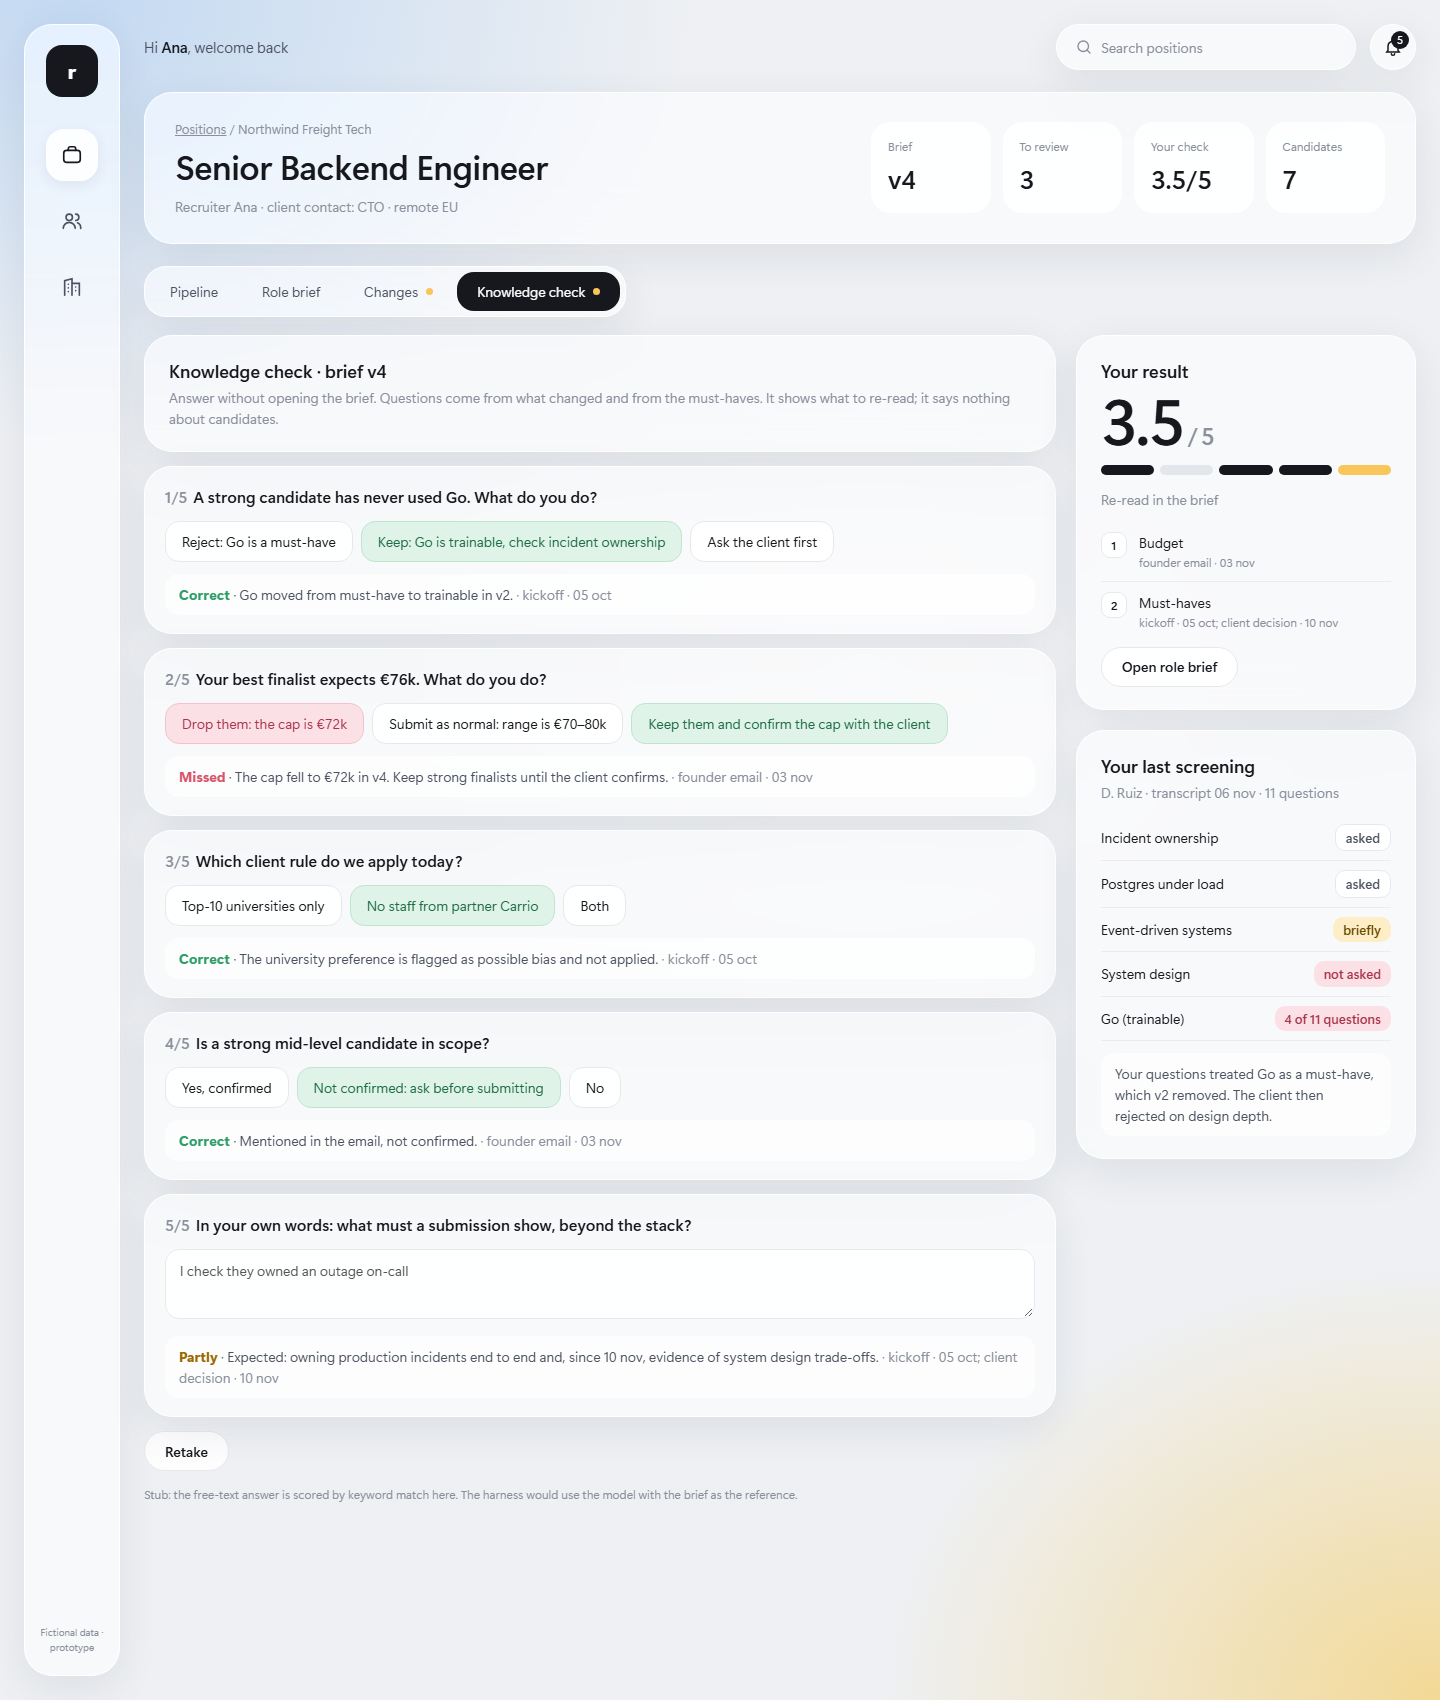
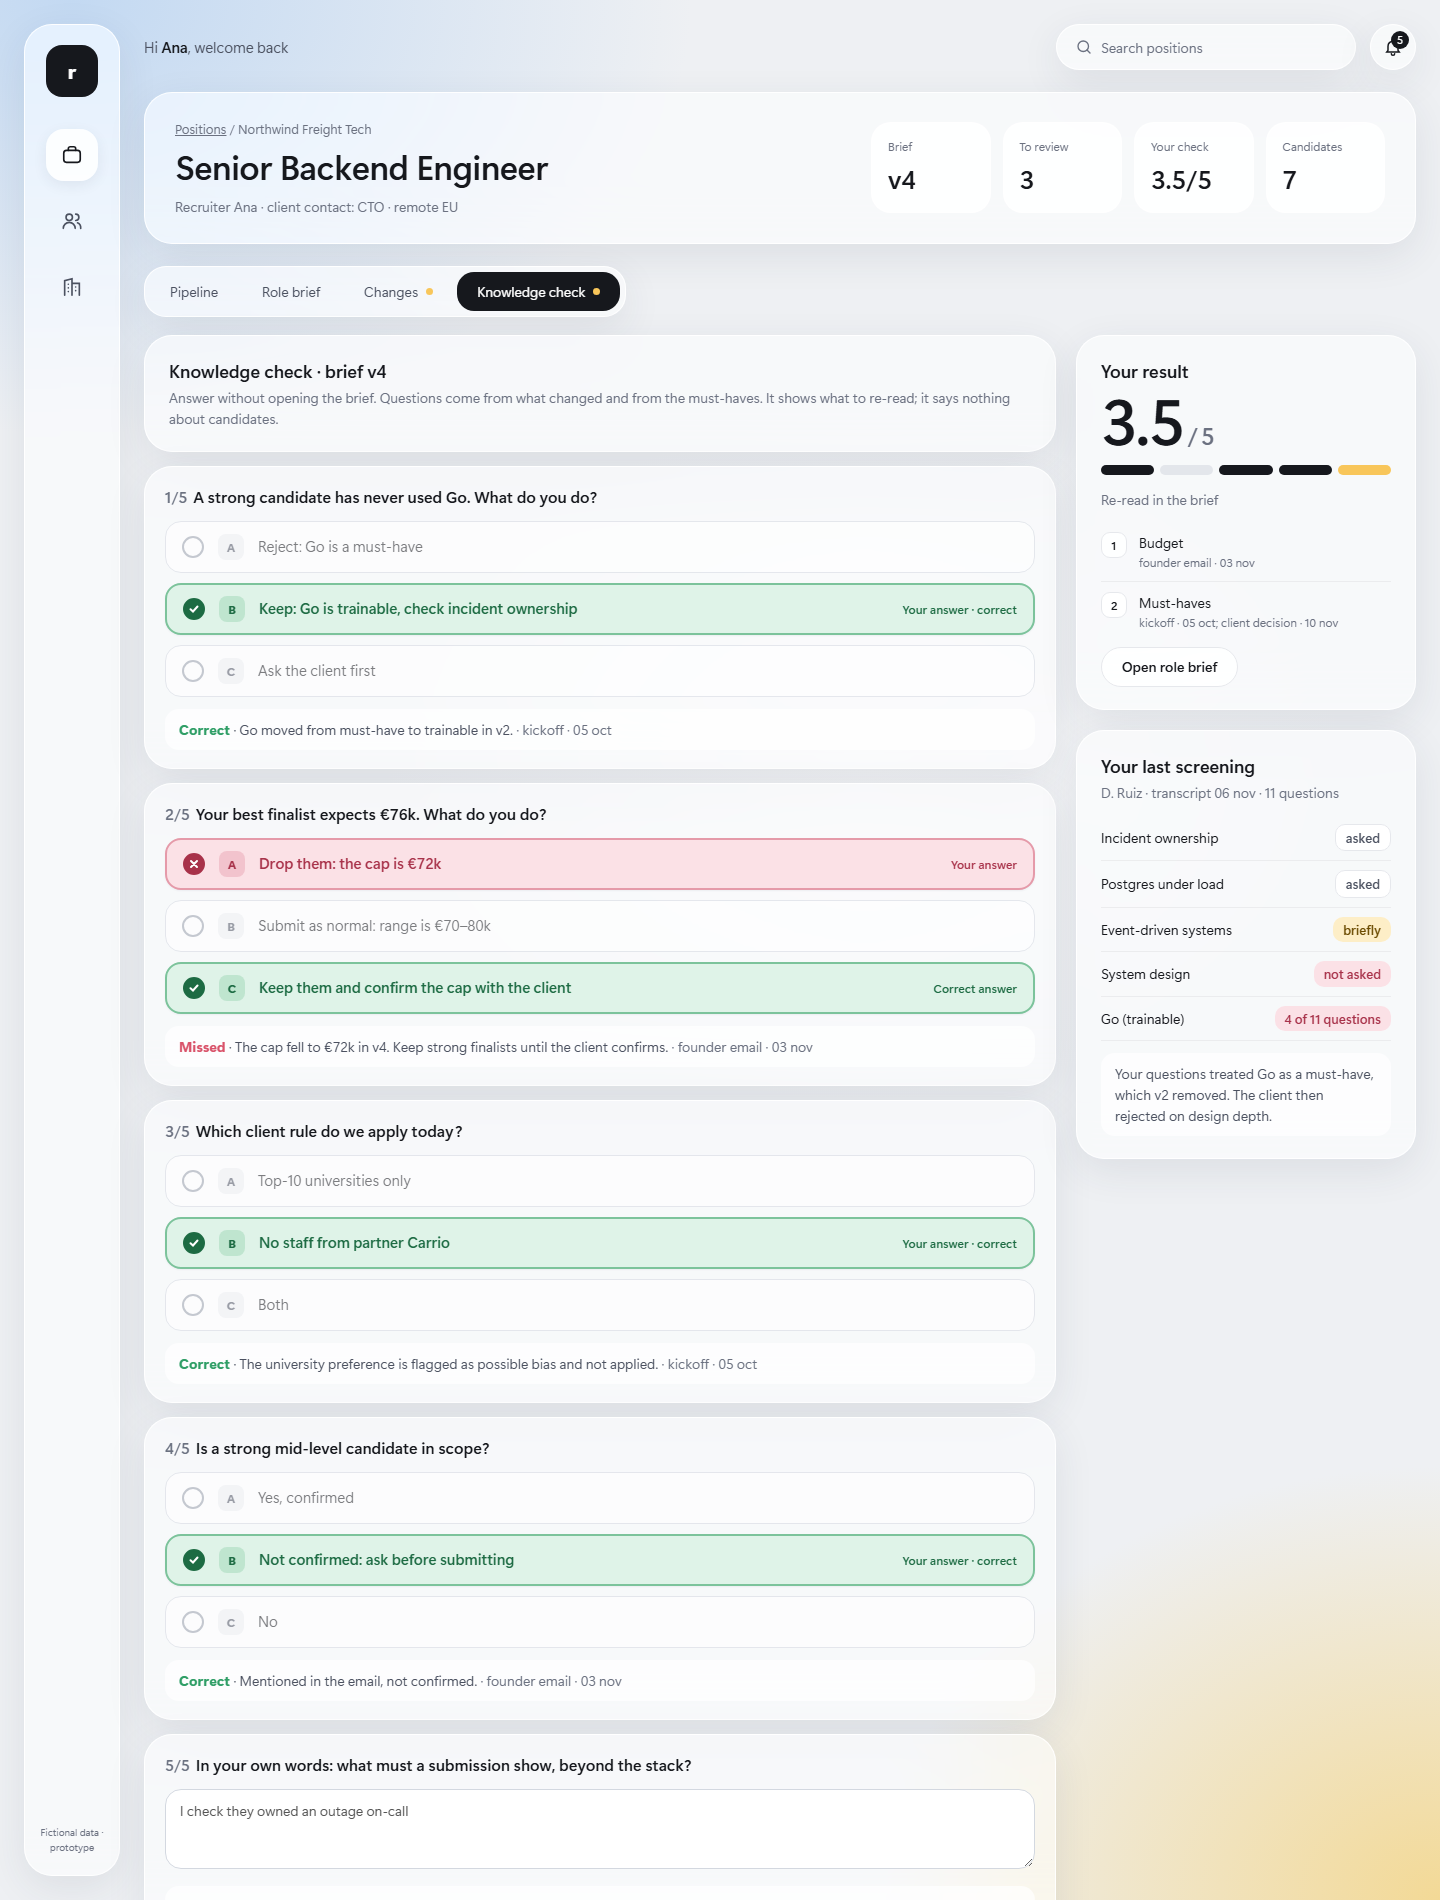
Adopt glass style in designs.md and clarify knowledge-check options

diff --git a/_work/2026-11-07-client-context/proto-ats-a-hifi.html b/_work/2026-11-07-client-context/proto-ats-a-hifi.html
@@ -1,7 +1,7 @@
 <!doctype html>
 <html lang="en"><head><meta charset="utf-8"><title>Mock ATS · role intelligence</title>
 <style>
-:root{--ink:#16181d;--ink2:#4b5160;--muted:#8a8f9c;--glass:rgba(255,255,255,.58);--glass2:rgba(255,255,255,.86);--edge:rgba(255,255,255,.9);
+:root{--ink:#16181d;--ink2:#4b5160;--muted:#6b7180;--glass:rgba(255,255,255,.58);--glass2:rgba(255,255,255,.86);--edge:rgba(255,255,255,.9);
 --yellow:#f8c65a;--yellowsoft:#fdeec7;--blue:#bcd5ef;--red:#d9536a;--green:#2f9e66;--shadow:0 12px 40px rgba(40,55,80,.09);
 --font:"Outfit","Segoe UI Variable Display","Segoe UI",system-ui,sans-serif}
 *{box-sizing:border-box}
@@ -90,11 +90,24 @@ main{min-width:0}
 /* check */
 .q{padding:18px 20px;margin-bottom:14px}
 .q p{margin:0 0 12px;font-weight:600;font-size:16px}.q .qn{color:var(--muted);font-weight:500;margin-right:6px}
-.opts{display:flex;flex-wrap:wrap;gap:8px}
-.opt{padding:9px 16px;border-radius:14px;background:var(--glass2);border:1px solid #e6e8ec;font-size:14px;text-align:left}
-.opt.sel{background:var(--ink);color:#fff;border-color:var(--ink)}
-.opt.right{background:#dff3e8;border-color:#bfe5cf;color:#1d6b43}.opt.wrong{background:#fbe1e6;border-color:#f2c3cd;color:#a8324a}
-textarea{width:100%;min-height:70px;border-radius:14px;border:1px solid #e6e8ec;background:var(--glass2);padding:10px 14px;font:inherit;font-size:14px;resize:vertical}
+.opts{display:grid;gap:10px}
+.opt{display:flex;align-items:center;gap:14px;width:100%;min-height:52px;padding:10px 16px;border-radius:16px;background:#fff;border:1.5px solid #d3d8e0;font-size:15px;text-align:left;box-shadow:0 1px 2px rgba(40,55,80,.06);transition:border-color .12s,background .12s}
+.opt:hover:not([disabled]){border-color:var(--ink);background:#fafbfc}
+.opt .rad{flex:none;width:22px;height:22px;border-radius:50%;border:2px solid #9aa1ad;display:grid;place-items:center;background:#fff}
+.opt .let{flex:none;width:26px;height:26px;border-radius:8px;background:#eef0f3;color:var(--ink2);font-size:12px;font-weight:700;display:grid;place-items:center}
+.opt .txt{flex:1}.opt .lab{flex:none;font-size:12px;font-weight:600;display:flex;align-items:center;gap:6px}
+.opt.sel{border:2px solid var(--ink);padding:9.5px 15.5px;font-weight:600}
+.opt.sel .rad{border-color:var(--ink)}.opt.sel .rad::after{content:"";width:10px;height:10px;border-radius:50%;background:var(--ink)}
+.opt.sel .let{background:var(--ink);color:#fff}
+.opt[disabled]{cursor:default}
+.opt.right{background:#dff3e8;border:2px solid #7cc39b;color:#1d6b43;font-weight:600}.opt.right .rad{border-color:#1d6b43;background:#1d6b43;color:#fff}.opt.right .let{background:#bfe5cf;color:#1d6b43}
+.opt.wrong{background:#fbe1e6;border:2px solid #e59aa9;color:#a8324a;font-weight:600}.opt.wrong .rad{border-color:#a8324a;background:#a8324a;color:#fff}.opt.wrong .let{background:#f2c3cd;color:#a8324a}
+.opt.dim{opacity:.55;box-shadow:none}
+.opt .rad svg{width:12px;height:12px}
+.qhead{display:flex;justify-content:space-between;align-items:baseline;gap:12px}.qhint{font-size:12px;color:var(--muted);white-space:nowrap}
+.q.answered .qhint{color:var(--green)}
+.submitbar{display:flex;align-items:center;gap:16px;margin-top:6px}.pill[disabled]{opacity:.4;cursor:not-allowed}
+textarea{width:100%;min-height:80px;border-radius:16px;border:1.5px solid #d3d8e0;background:#fff;padding:10px 14px;font:inherit;font-size:14px;resize:vertical}
 .fb{margin-top:12px;padding:10px 14px;border-radius:14px;background:rgba(255,255,255,.7);font-size:14px;color:var(--ink2)}
 .fb b.ok{color:var(--green)}.fb b.bad{color:var(--red)}.fb b.part{color:#9a6a00}
 .score{font-size:64px;font-weight:600;letter-spacing:-.02em;line-height:1}.score small{font-size:24px;color:var(--muted)}
@@ -154,7 +167,7 @@ function tab(t){S.tab=t;draw()}
 function topBar(){const n=POS.reduce((a,p)=>a+p.unrev,0);return `<div class="topbar"><div class="hello">Hi <b>Ana</b>, welcome back</div>
 <div class="search glass">${ic.search} Search positions</div>
 <button class="round glass" aria-label="${n} unreviewed brief changes">${ic.bell}<span class="dot">${n}</span></button></div>`}
-function draw(){$('main').innerHTML=topBar()+(S.view==='list'?list():position())}
+function draw(){$('main').innerHTML=topBar()+(S.view==='list'?list():position());const t=$('t4');if(t)t.value=S.ans[4]||'';progress()}
 function spark(t){const w=260,h=44,m=Math.max(...t),pts=t.map((v,i)=>[i*w/(t.length-1),h-4-(v/m)*(h-10)]);return `<svg class="spark" viewBox="0 0 ${w} ${h}" preserveAspectRatio="none" width="100%"><polyline fill="none" stroke="#e0b347" stroke-width="2.5" stroke-linejoin="round" points="${pts.map(p=>p.join(',')).join(' ')}"/>${pts.map(p=>`<circle cx="${p[0]}" cy="${p[1]}" r="3" fill="#fff" stroke="#e0b347" stroke-width="2"/>`).join('')}</svg>`}
 function list(){const total=POS.reduce((a,p)=>a+p.unrev,0);return `<section class="glass hero" style="grid-template-columns:1fr auto">
 <div><p class="h1">Open positions</p><div class="big">${POS.length} searches</div><div style="margin-top:10px;display:flex;gap:8px"><span class="chip y">${total} brief changes to review</span><span class="chip g">1 knowledge check due</span></div></div>
@@ -195,13 +208,19 @@ ${F.map(r=>`<tr><td><span class="grp">${r[0]}</span>${r[1]}</td>${r[2].map((c,i)
 function score(q,i){const a=S.ans[i];if(q.open){const t=(a||'').toLowerCase(),inc=['incident','outage','on-call'].some(k=>t.includes(k)),des=t.includes('design');return inc&&des?1:inc||des?.5:0}return a===q.a?1:0}
 function scoreTotal(){return Q.reduce((a,q,i)=>a+score(q,i),0)}
 function pick(i,j){if(S.done)return;S.ans[i]=j;draw()}
+function has(i){const a=S.ans[i];return Q[i].open?!!(a&&a.trim()):a!==undefined}
+function progress(){const n=Q.filter((q,i)=>has(i)).length,b=$('sub'),p=$('prog');if(b)b.disabled=n<Q.length;if(p)p.textContent=n<Q.length?n+' of '+Q.length+' answered':'All answered';}
+const ICK='<svg viewBox="0 0 12 12" fill="none" stroke="currentColor" stroke-width="2" stroke-linecap="round"><path d="M2.5 6.2 5 8.5l4.5-5"/></svg>',IX='<svg viewBox="0 0 12 12" fill="none" stroke="currentColor" stroke-width="2" stroke-linecap="round"><path d="m3 3 6 6M9 3 3 9"/></svg>';
+function opt(q,i,j,o,d){const mine=S.ans[i]===j,L='ABC'[j];let c='opt',rad='',lab='';
+if(d){if(j===q.a){c+=' right';rad=ICK;lab=mine?'Your answer · correct':'Correct answer'}else if(mine){c+=' wrong';rad=IX;lab='Your answer'}else c+=' dim'}else if(mine)c+=' sel';
+return `<button class="${c}" role="radio" aria-checked="${mine}" ${d?'disabled':''} onclick="pick(${i},${j})"><span class="rad">${rad}</span><span class="let">${L}</span><span class="txt">${o}</span>${lab?`<span class="lab">${lab}</span>`:''}</button>`}
 function submitQ(){const t=$('t4');if(t)S.ans[4]=t.value;S.done=true;draw()}
 function check(){const d=S.done;return `<div class="two"><div>
 <section class="glass panel" style="margin-bottom:14px"><h3>Knowledge check · brief v4</h3><div class="sub" style="margin:0">Answer without opening the brief. Questions come from what changed and from the must-haves. It shows what to re-read; it says nothing about candidates.</div></section>
-${Q.map((q,i)=>`<div class="glass q"><p><span class="qn">${i+1}/5</span>${q.p}</p>
-${q.open?`<textarea id="t${i}" ${d?'disabled':''} placeholder="Write a sentence or two">${S.ans[i]||''}</textarea>`:`<div class="opts">${q.o.map((o,j)=>{let c='opt';if(d){if(j===q.a)c+=' right';else if(S.ans[i]===j)c+=' wrong'}else if(S.ans[i]===j)c+=' sel';return `<button class="${c}" onclick="pick(${i},${j})">${o}</button>`}).join('')}</div>`}
+${Q.map((q,i)=>`<div class="glass q ${has(i)?'answered':''}" id="q${i}"><div class="qhead"><p><span class="qn">${i+1}/5</span>${q.p}</p><span class="qhint">${d?'':q.open?'Free text':has(i)?'✓ Answered':'Choose one'}</span></div>
+${q.open?`<textarea id="t${i}" ${d?'disabled':''} placeholder="Write a sentence or two" aria-label="Your answer" oninput="S.ans[${i}]=this.value;progress()"></textarea>`:`<div class="opts" role="radiogroup" aria-label="Question ${i+1}">${q.o.map((o,j)=>opt(q,i,j,o,d)).join('')}</div>`}
 ${d?`<div class="fb">${(s=>`<b class="${s===1?'ok':s?'part':'bad'}">${s===1?'Correct':s?'Partly':'Missed'}</b>`)(score(q,i))} · ${q.why} <span class="sub">· ${q.src}</span></div>`:''}</div>`).join('')}
-${d?`<button class="pill light" onclick="S.ans={};S.done=false;draw()">Retake</button>`:`<button class="pill dark" onclick="submitQ()">Check my answers</button>`}
+${d?`<button class="pill light" onclick="S.ans={};S.done=false;draw()">Retake</button>`:`<div class="submitbar"><button class="pill dark" id="sub" onclick="submitQ()">Check my answers</button><span class="sub" id="prog"></span></div>`}
 <p class="stub">Stub: the free-text answer is scored by keyword match here. The harness would use the model with the brief as the reference.</p></div>
 <div style="position:sticky;top:24px">${d?result():`<section class="glass panel"><h3>Your result</h3><div class="score">–<small> / 5</small></div><div class="sub" style="margin-top:8px">Last check: 2 / 5 on v3. Three fields changed since.</div></section>`}
 <section class="glass panel"><h3>Your last screening</h3><div class="sub">D. Ruiz · transcript 06 nov · 11 questions</div>
@@ -210,5 +229,5 @@ ${[['Incident ownership','asked','g'],['Postgres under load','asked','g'],['Even
 function result(){const s=Q.map((q,i)=>score(q,i)),miss=Q.filter((q,i)=>s[i]<1);return `<section class="glass panel"><h3>Your result</h3><div class="score">${scoreTotal()}<small> / 5</small></div>
 <div class="seg5">${s.map(x=>`<i class="${x===1?'y':x?'h':''}"></i>`).join('')}</div>
 ${miss.length?`<div class="sub">Re-read in the brief</div><ul class="list">${miss.map((q,i)=>`<li><span class="num">${i+1}</span><div>${q.f}<small>${q.src}</small></div></li>`).join('')}</ul><button class="pill light" onclick="tab('brief')" style="margin-top:6px">Open role brief</button>`:'<div class="sub">You are up to date with v4.</div>'}</section>`}
-const h=location.hash.slice(1);if(['pipeline','brief','changes','check'].includes(h)){S.view='pos';S.pos='nw-be';S.tab=h}if(location.search.includes('demo')){S.ans={0:1,1:0,2:1,3:1,4:'I check they owned an outage on-call'};S.done=true}draw();
+const h=location.hash.slice(1);if(['pipeline','brief','changes','check'].includes(h)){S.view='pos';S.pos='nw-be';S.tab=h}if(location.search.includes('partial'))S.ans={0:1,1:0};if(location.search.includes('demo')){S.ans={0:1,1:0,2:1,3:1,4:'I check they owned an outage on-call'};S.done=true}draw();
 </script></body></html>

diff --git a/designs.md b/designs.md
@@ -3,8 +3,9 @@
 Applies to readme.html, decision artifacts, and future interface prototypes. Product-specific choices may extend it once the end user is known.
 
 - Self-contained UTF-8 HTML, inline CSS/JavaScript, no CDN, tracking, remote fonts, or network requests. Set viewport and lang. Work from a local file.
-- Visual language: `docs/ui-style-reference.md` (supplied by the human 2026-11-07; prompts/client-context/003-user.md) governs product UI and new artifacts. Adopt its look (cream canvas #fdfbf9, Dew Drop #f7efe9 surface, Charcoal #171717 text and borders, Cocoa Ink #2b1a07 headings, lowercase rounded display, outlined pill buttons, 12px cards, whisper shadows, orange footer band). Do not reuse the source brand's name, logo, product photos, stickers or copy; this is a fictional recruitment agency's product.
-- Required adaptations: (1) no remote fonts: gelica/Geist fall back to the system stack, with Fraunces-like display only if bundled locally. (2) Marker Orange #ff6f1e measures 2.70:1 on cream, so use it only for decoration (underlines, footer band, arrows), never for text or state. Burnt Sienna #ce500a (4.26:1) is allowed only for text of 24px and above. (3) Sprout green measures 2.21:1, so focus rings use a 3px Charcoal outline. (4) The reference's `#ff6f1` brand-band token is a truncated typo; use #ff6f1e. (5) Display size is capped at clamp(2.5rem, 7vw, 6.5rem) so it fits phones. Earlier artifacts keep their old green palette as historical records.
+- Visual language (human decision 2026-11-08, prompts/client-context/019-user.md; supersedes `docs/ui-style-reference.md`, which stays as a historical record): light frosted-glass UI, as in `_work/2026-11-07-client-context/proto-ats-a-hifi.html`. Applies to the product UI, readme.html and new artifacts. Light theme only.
+- Tokens: backdrop #eef0f3 with soft radial washes of blue #c3d9f2 (top-left) and warm yellow #f3d996 (bottom-right); glass card rgba(255,255,255,.58) with 26px backdrop blur, 1px rgba(255,255,255,.9) edge, 28px radius, shadow 0 12px 40px rgba(40,55,80,.09); inner tile rgba(255,255,255,.86), 20px radius; ink #16181d; secondary text #4b5160; muted text #6b7180; change marker yellow #f8c65a (soft #fdeec7); success #1d6b43 on #dff3e8; error #a8324a on #fbe1e6; selected state and primary buttons ink #16181d with white text. Type: geometric sans via the system stack ("Segoe UI Variable", "Segoe UI", system-ui), large numerals for key figures, 40px pill buttons, segmented tabs with a dark selected tab.
+- Required adaptations: (1) no remote fonts or images. (2) Yellow is a background or marker only, always with dark text; never yellow text. (3) Do not rely on the translucent fill alone to show interactivity: selectable items need a visible control (radio, checkbox, chevron) and a border, and states differ by more than colour (icon or label). (4) Focus rings: 3px ink outline. (5) Do not reuse the reference image's brand name, logo, photos or copy; this is a fictional recruitment agency's product. Earlier artifacts keep their old styles as historical records.
 - Clear hierarchy: purpose/status → summary → decisions or tasks → evidence/next step. Distinguish facts, recommendations, assumptions, and pending answers with text, not color alone.
 - Responsive one/two-column grids that collapse below 720px. No fixed-width overflow. Semantic headings, fieldsets/legends, explicit labels, visible keyboard focus, adequate contrast, 44px action targets.
 - Every question: stable ID, why it matters, meaningful options with benefits/costs and recommended default. Defaults are proposals; leave answer inputs blank. Add free text for edge cases.

diff --git a/memory/STATE.md b/memory/STATE.md
@@ -2,7 +2,7 @@
 
 Updated: 2026-11-07 · Claude (client-context chat). Stage: client-context answers recorded; plan next.
 
-LATEST: the human chose prototype A and asked for a high-fidelity, desktop, light version in a frosted-glass modern style from a reference image (prompts/client-context/017-user.md). Built _work/2026-11-07-client-context/proto-ats-a-hifi.html (positions dashboard, position hero with KPIs, segmented tabs: Pipeline, Role brief, Changes = timeline + version table + client decisions, Knowledge check = 5 questions + result + last-screening coverage). Checked with headless Edge screenshots at 1440px (evidence/ folder) and a syntax check; free-text scoring is a keyword stub; ?demo#check shows an answered state. Open: whether the glass style replaces docs/ui-style-reference.md everywhere (designs.md unchanged); F1-F3; recalibration trigger. Next: objective map, then plan-gate peer review, JD research, mock data.
+LATEST: the human confirmed the frosted-glass style for everything (designs.md updated; docs/ui-style-reference.md is history) and asked for clearer knowledge-check options (prompts/client-context/019-user.md). proto-ats-a-hifi.html now shows options as solid white rows with radio, letter, border and hover; selected, correct and wrong states use icons and labels as well as colour; the submit button waits for all answers. Checked by headless Edge screenshots (evidence/hifi-check-answering.png, evidence/hifi-check.png) and a scripted run (gating, scoring). Free-text scoring remains a keyword stub. Open: F1-F3, recalibration trigger. Next: objective map, then plan-gate peer review, JD research, mock data.
 
 Earlier baton (Codex):
 

diff --git a/knowledge/business.md b/knowledge/business.md
@@ -61,7 +61,8 @@ Recommended option accepted for C1, C2, C4–C18; C3 proposal accepted. Notes th
 
 ## Prototype A chosen; glass visual style (prompts/client-context/017-user.md, 2026-11-08)
 - The human chose prototype A (tabs inside the position: Pipeline, Role brief, Changes, Knowledge check).
-- Visual direction for the product UI: light frosted-glass cards, large radii, soft blue/yellow backdrop, yellow pills for changes, large numerals, dark selected tab. Desktop, light theme. This supersedes docs/ui-style-reference.md for the product UI; designs.md is not yet updated (pending confirmation that it also applies to question/decision pages).
+- Visual direction for the product UI: light frosted-glass cards, large radii, soft blue/yellow backdrop, yellow pills for changes, large numerals, dark selected tab. Desktop, light theme. Confirmed 2026-11-08 (prompts/client-context/019-user.md): use it everywhere; designs.md updated, docs/ui-style-reference.md kept as history.
+- Knowledge-check feedback (019): unselected options were hard to tell apart and did not look selectable. Now full-width option rows on solid white with a radio, a letter, a border and hover; selected = dark border and filled radio; results label "Your answer" / "Correct answer" with icons and dim the rest; the check button stays disabled until all five are answered.
 - Artifact: _work/2026-11-07-client-context/proto-ats-a-hifi.html; screenshots in the same folder under evidence/.
 
 ## Role information inside a mock ATS (prompts/client-context/015-user.md, 2026-11-07)

diff --git a/prompts/client-context/019-user.md b/prompts/client-context/019-user.md
@@ -1,0 +1,3 @@
+# User message 019 (verbatim)
+
+Yes, let's use it everywhere. Now, feedback, because I think the knowledge check, which is the form, the assessment for questions and answer, I didn't like it too much. I think, I mean, it's more difficult to see the options when they are not selected, because all of them have the same background. So it's more like it's take more effort to try to see what is an answer, what is selectable. So could you refine that?

diff --git a/prompts/client-context/020-assistant.md b/prompts/client-context/020-assistant.md
@@ -1,0 +1,2 @@
+# Assistant message 020 (summary of visible reply)
+Made the glass style the standard in designs.md (with a rule that selectable items need a visible control and non-colour state cues). Redesigned the knowledge-check options: stacked white rows with radio, letter, border and hover; clear selected, correct and wrong states with labels; submit enabled only when all answers are in. Verified by screenshots and a scripted run.
